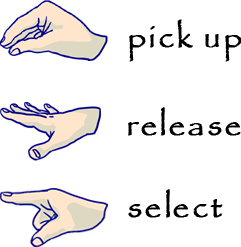
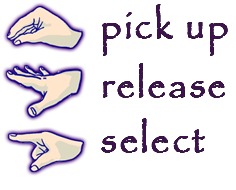
tiny instruction strip?

diff --git a/proj2/src/IG.java b/proj2/src/IG.java
@@ -56,6 +56,7 @@ public class IG extends Pane implements Game {
 	private BackGround bg = new BackGround();
 	
 	private Label winImage = new Label("",new ImageView(new Image("winwin.png",1300,800,false,false)));
+	private Label insImage = new Label("",new ImageView(new Image("Instruction.png",240,180,false,false)));
 	
 	public IG() {
 		setStyle("-fx-background-color: white;");
@@ -89,6 +90,10 @@ public class IG extends Pane implements Game {
 //		winImage.setLayoutY(HEIGHT/2);
 		getChildren().add(winImage);
 		winImage.setVisible(false);
+		
+		insImage.setLayoutX(40);
+		insImage.setLayoutY(20);
+		getChildren().add(insImage);
 
 		restartGame(GameState.NEW);
 	}
